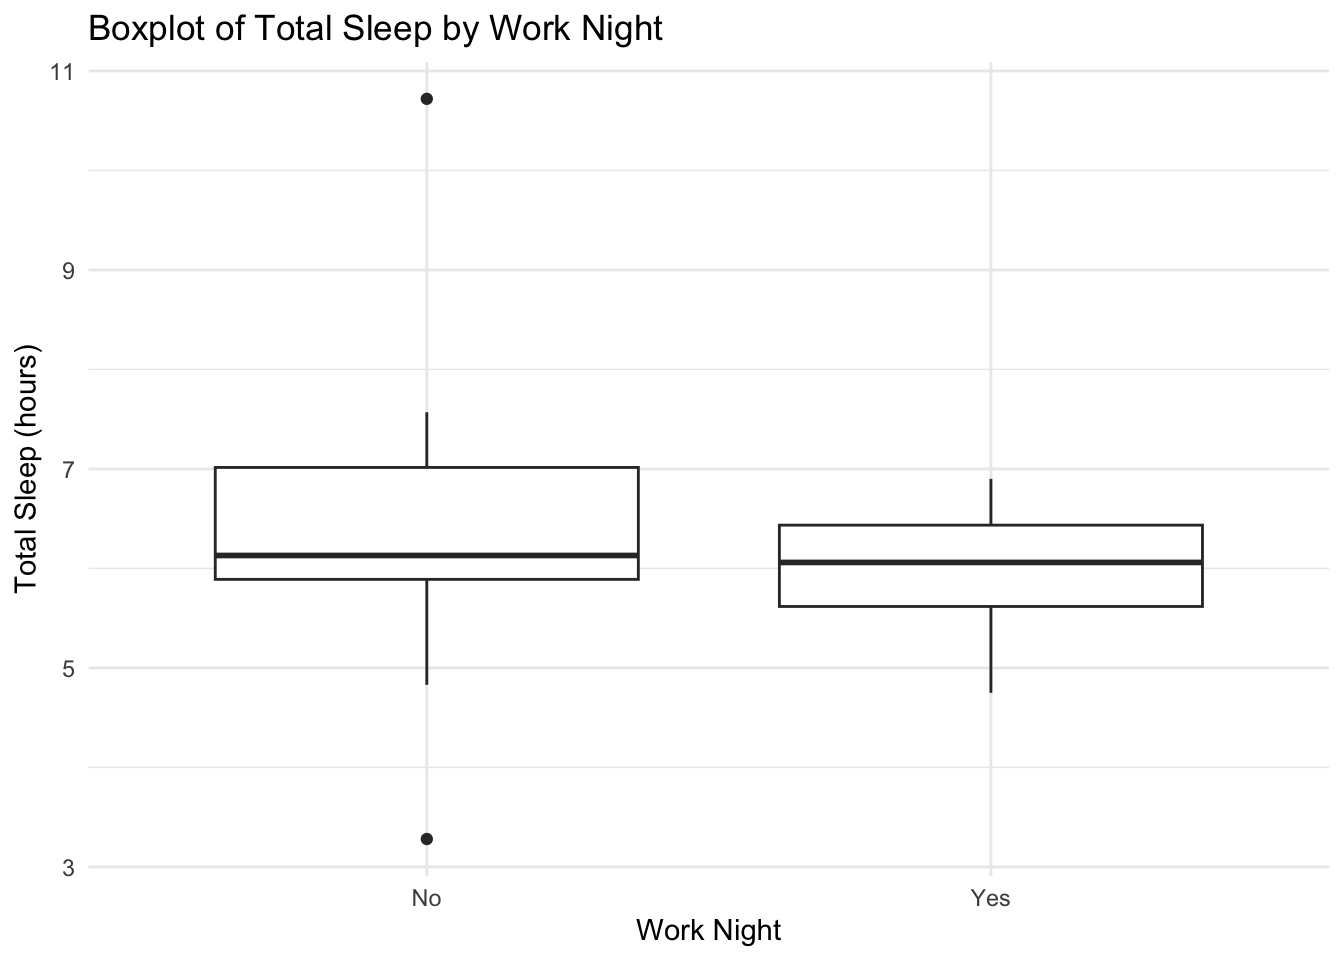
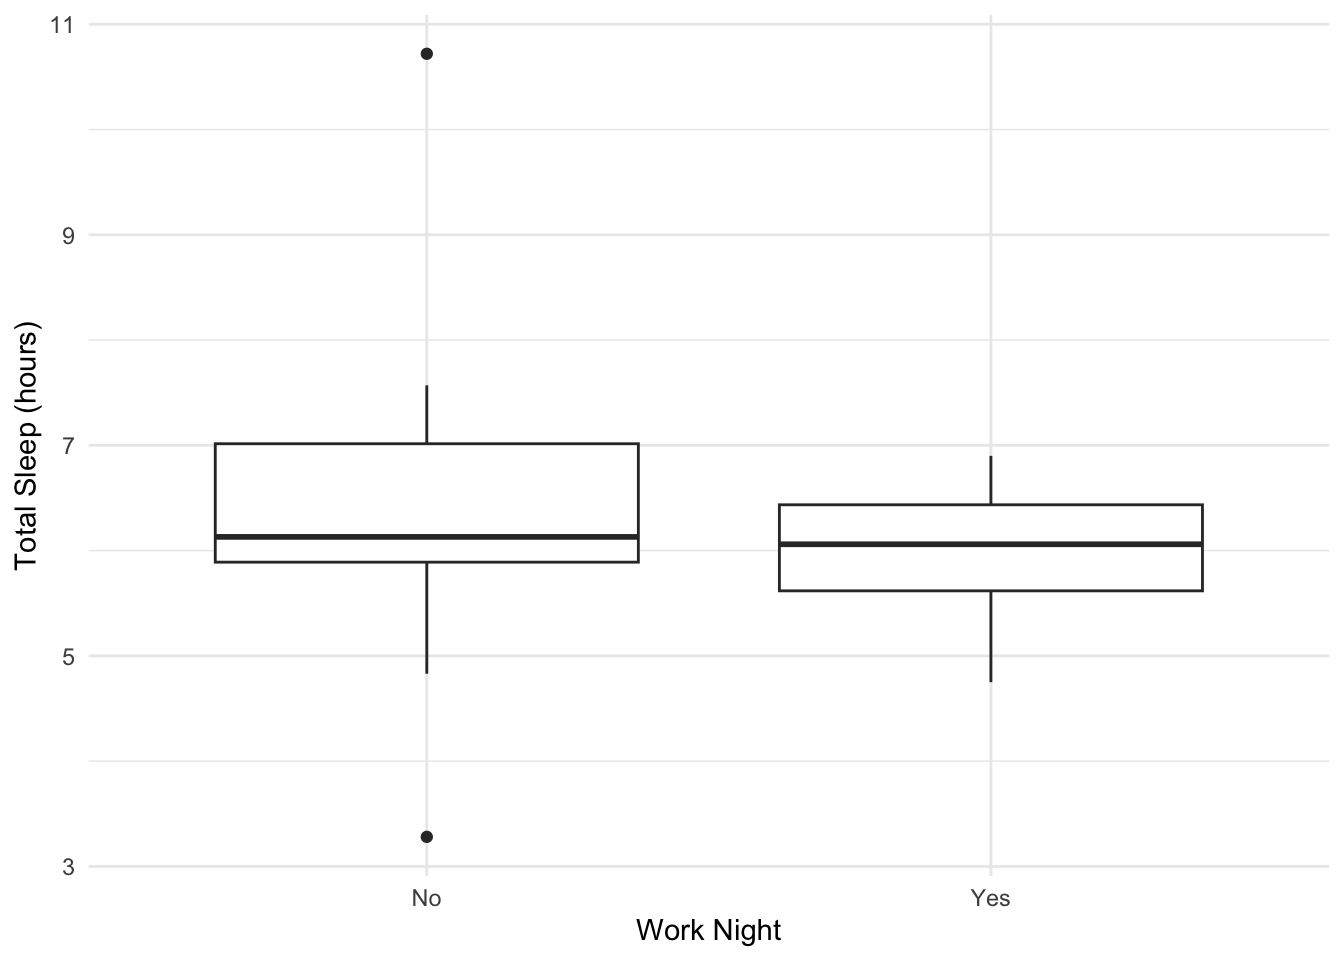
add interactive visual

diff --git a/docs/projects.html b/docs/projects.html
@@ -161,6 +161,8 @@ pre > code.sourceCode > span > a:first-child::before { text-decoration: underlin
   <ul class="collapse">
   <li><a href="#methods" id="toc-methods" class="nav-link" data-scroll-target="#methods">Methods</a></li>
   <li><a href="#map-of-glacial-retreat" id="toc-map-of-glacial-retreat" class="nav-link" data-scroll-target="#map-of-glacial-retreat">Map of Glacial Retreat</a></li>
+  <li><a href="#satellite-image-comparison" id="toc-satellite-image-comparison" class="nav-link" data-scroll-target="#satellite-image-comparison">Satellite Image Comparison</a></li>
+  <li><a href="#interpretation" id="toc-interpretation" class="nav-link" data-scroll-target="#interpretation">Interpretation</a></li>
   </ul></li>
   </ul>
 </nav>
@@ -209,9 +211,8 @@ pre > code.sourceCode > span > a:first-child::before { text-decoration: underlin
 <span id="cb1-14"><a href="#cb1-14" aria-hidden="true" tabindex="-1"></a>       <span class="fu">aes</span>(<span class="at">x =</span> work_night, <span class="co"># x-axis: categorical predictor variable</span></span>
 <span id="cb1-15"><a href="#cb1-15" aria-hidden="true" tabindex="-1"></a>       <span class="at">y =</span> total_sleep_hours)) <span class="sc">+</span> <span class="co"># y-axis: continuous response variable </span></span>
 <span id="cb1-16"><a href="#cb1-16" aria-hidden="true" tabindex="-1"></a>  <span class="fu">geom_boxplot</span>() <span class="sc">+</span></span>
-<span id="cb1-17"><a href="#cb1-17" aria-hidden="true" tabindex="-1"></a>  <span class="fu">labs</span>( <span class="at">x =</span> <span class="st">"Work Night"</span>, <span class="at">y =</span> <span class="st">"Total Sleep (hours)"</span>, <span class="co"># relabel x and y axis</span></span>
-<span id="cb1-18"><a href="#cb1-18" aria-hidden="true" tabindex="-1"></a>        <span class="at">title =</span> <span class="st">"Boxplot of Total Sleep by Work Night"</span>) <span class="sc">+</span> <span class="co"># give the chart a title</span></span>
-<span id="cb1-19"><a href="#cb1-19" aria-hidden="true" tabindex="-1"></a>  <span class="fu">theme_minimal</span>() <span class="co"># apply a clean minimalistic theme</span></span></code><button title="Copy to Clipboard" class="code-copy-button"><i class="bi"></i></button></pre></div>
+<span id="cb1-17"><a href="#cb1-17" aria-hidden="true" tabindex="-1"></a>  <span class="fu">labs</span>( <span class="at">x =</span> <span class="st">"Work Night"</span>, <span class="at">y =</span> <span class="st">"Total Sleep (hours)"</span>) <span class="sc">+</span> <span class="co"># relabel x and y axis</span></span>
+<span id="cb1-18"><a href="#cb1-18" aria-hidden="true" tabindex="-1"></a>  <span class="fu">theme_minimal</span>() <span class="co"># apply a clean minimalistic theme</span></span></code><button title="Copy to Clipboard" class="code-copy-button"><i class="bi"></i></button></pre></div>
 <div class="cell-output-display">
 <div>
 <figure class="figure">
@@ -233,13 +234,30 @@ pre > code.sourceCode > span > a:first-child::before { text-decoration: underlin
 <section id="map-of-glacial-retreat" class="level3">
 <h3 class="anchored" data-anchor-id="map-of-glacial-retreat">Map of Glacial Retreat</h3>
 <p><img src="images/glacier_map.jpg" class="img-fluid"></p>
-
-
+</section>
+<section id="satellite-image-comparison" class="level3">
+<h3 class="anchored" data-anchor-id="satellite-image-comparison">Satellite Image Comparison</h3>
+<script src="https://cdn.knightlab.com/libs/juxtapose/latest/js/juxtapose.min.js" <="" script="">
+<p><link href="https://cdn.knightlab.com/libs/juxtapose/latest/css/juxtapose.css" rel="stylesheet"></p>
+<!-- Slider Container -->
+<div class="juxtapose" style="width: 100%; height: 500px;">
+<p><img src="images/Dec_1986.jpg" data-label="Dec 1986"/> <img src="images/Dec_2010.jpg" data-label="Dec 2010"/></p>
+</div>
+</section>
+<section id="interpretation" class="level3">
+<h3>Interpretation</h3>
+<p>As shown above, glacial coverage has notably decreased. This comparison of 1986 and 2010 satellite imagery from the Chugach Range is consistent with the findings that tidewater glaciers respond more rapidly to climate change.</p>
+<div id="quarto-navigation-envelope" class="hidden">
+<p><span class="hidden quarto-markdown-envelope-contents" data-render-id="quarto-int-sidebar-title">Linnea Lauffer</span> <span class="hidden quarto-markdown-envelope-contents" data-render-id="quarto-int-navbar-title">Linnea Lauffer</span> <span class="hidden quarto-markdown-envelope-contents" data-render-id="quarto-int-navbar:Home">Home</span> <span class="hidden quarto-markdown-envelope-contents" data-render-id="quarto-int-navbar:/index.html">/index.html</span> <span class="hidden quarto-markdown-envelope-contents" data-render-id="quarto-int-navbar:About">About</span> <span class="hidden quarto-markdown-envelope-contents" data-render-id="quarto-int-navbar:/about.html">/about.html</span> <span class="hidden quarto-markdown-envelope-contents" data-render-id="quarto-int-navbar:Projects">Projects</span> <span class="hidden quarto-markdown-envelope-contents" data-render-id="quarto-int-navbar:/projects.html">/projects.html</span> <span class="hidden quarto-markdown-envelope-contents" data-render-id="quarto-int-navbar:Travel and Trails">Travel and Trails</span> <span class="hidden quarto-markdown-envelope-contents" data-render-id="quarto-int-navbar:/explore.html">/explore.html</span></p>
+</div>
+<div id="quarto-meta-markdown" class="hidden">
+<p><span class="hidden quarto-markdown-envelope-contents" data-render-id="quarto-metatitle">Projects – Linnea Lauffer</span> <span class="hidden quarto-markdown-envelope-contents" data-render-id="quarto-twittercardtitle">Projects – Linnea Lauffer</span> <span class="hidden quarto-markdown-envelope-contents" data-render-id="quarto-ogcardtitle">Projects – Linnea Lauffer</span> <span class="hidden quarto-markdown-envelope-contents" data-render-id="quarto-metasitename">Linnea Lauffer</span> <span class="hidden quarto-markdown-envelope-contents" data-render-id="quarto-twittercarddesc"></span> <span class="hidden quarto-markdown-envelope-contents" data-render-id="quarto-ogcardddesc"></span></p>
+</div>
 </section>
 </section>
 
 </main> <!-- /main -->
-<script id="quarto-html-after-body" type="application/javascript">
+<script id = "quarto-html-after-body" type="application/javascript">
 window.document.addEventListener("DOMContentLoaded", function (event) {
   const toggleBodyColorMode = (bsSheetEl) => {
     const mode = bsSheetEl.getAttribute("data-mode");
@@ -659,7 +677,7 @@ window.document.addEventListener("DOMContentLoaded", function (event) {
   }
 });
 </script>
-</div> <!-- /content -->
+</section></section></main></div> <!-- /content -->
 
 
 
